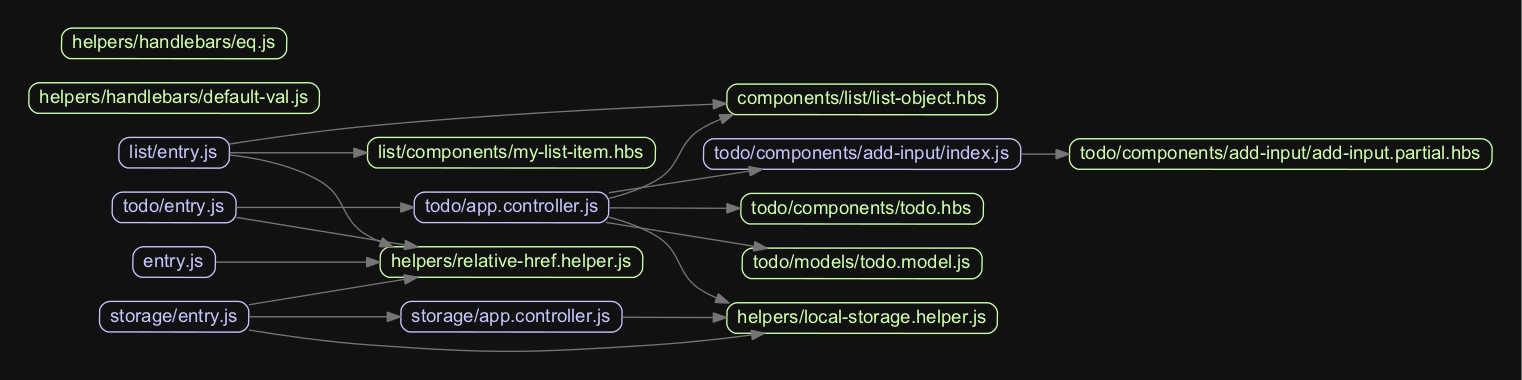
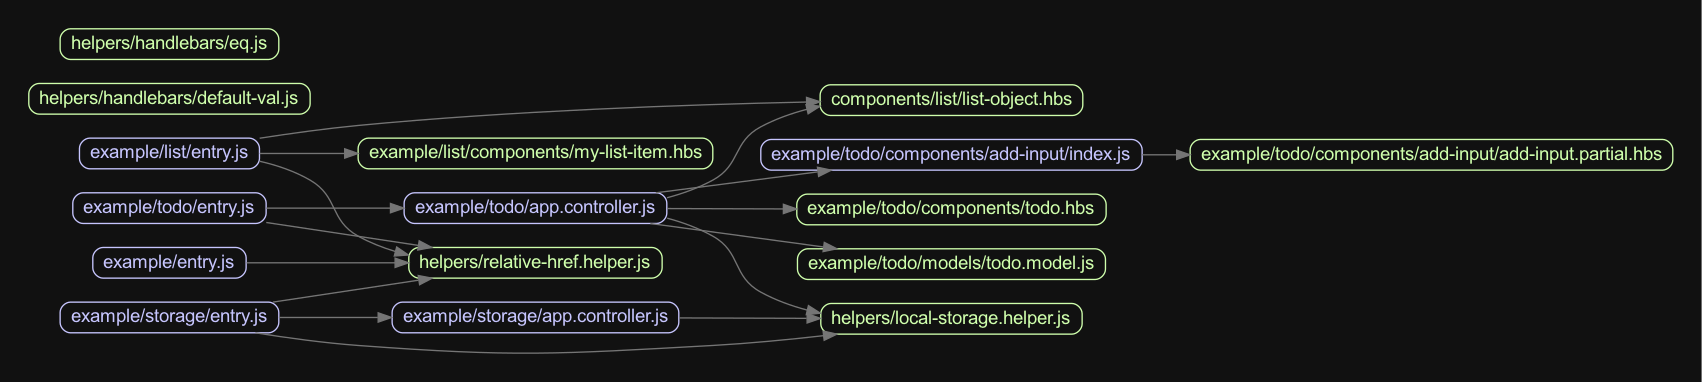
move examples, also add docs link in app footer

Changed region(s): [[0.0, 0.2026, 0.9882, 0.9263], [0.0309, 0.0579, 0.1853, 0.1737]]

diff --git a/webpack.config.js b/webpack.config.js
@@ -25,10 +25,10 @@ module.exports = (env) => {
     mode: 'development',
     // Each entry will be loaded into webpage via <script> tags
     entry: {
-      app: './src/entry.js',
-      storage: './src/storage/entry.js',
-      todo: './src/todo/entry.js',
-      list: './src/list/entry.js'
+      app: './src/example/entry.js',
+      storage: './src/example/storage/entry.js',
+      todo: './src/example/todo/entry.js',
+      list: './src/example/list/entry.js'
     },
     output: {
       filename: '[name].bundle.js',
@@ -53,7 +53,7 @@ module.exports = (env) => {
     plugins: [
       new HtmlWebpackPlugin({
         meta,
-        template: 'src/index.html',
+        template: 'src/example/index.html',
         // Set the webpage title
         title: 'Test with Webpack Plugin',
         excludeChunks: [
@@ -67,21 +67,21 @@ module.exports = (env) => {
       new HtmlWebpackPlugin({
         meta,
         filename: 'storage/index.html',
-        template: 'src/storage/index.html',
+        template: 'src/example/storage/index.html',
         title: 'LocalStorage Example',
         chunks: ['storage']
       }),
       new HtmlWebpackPlugin({
         meta,
         filename: 'todo/index.html',
-        template: 'src/todo/index.html',
+        template: 'src/example/todo/index.html',
         title: 'TODO Example',
         chunks: ['todo']
       }),
       new HtmlWebpackPlugin({
         meta,
         filename: 'list/index.html',
-        template: 'src/list/index.html',
+        template: 'src/example/list/index.html',
         title: 'List Partials Example',
         chunks: ['list']
       }),

diff --git a/src/static/footer.html b/src/static/footer.html
@@ -1,6 +1,8 @@
 <footer class="font-thin text-sm px-2 flex justify-between bg-opacity-50 bg-gray-300">
-  <div class="pt-1 pb-1 justify-start">
+  <div class="pt-1 pb-1 justify-start flex-1">
     @githubImg()
+
+    <a class="ml-1 text-xs" href="https://devlinjunker.github.io/template.webpack.fend">Docs</a>
   </div>
 
   <!--nav>
@@ -15,6 +17,6 @@
     <span class="text-xxs hidden" onclick="document.querySelector('.copyright-build .hidden').classList.remove('hidden'); this.classList.add('hidden');">
       <p>@branch() - @commit()</p>
       <p> @ @datetime() </p>
-    </span> 
+    </span>
   </div>
 </footer>

diff --git a/src/example/todo/app.controller.js b/src/example/todo/app.controller.js
@@ -2,10 +2,10 @@
  * @flow
  */
 import Todo from './models/todo.model.js';
-import listObjectTemplate from '../components/list/list-object.hbs';
+import listObjectTemplate from '../../components/list/list-object.hbs';
 import todoTemplate from './components/todo.hbs';
 import addInputComponent, { AddInputComponent } from './components/add-input';
-import LocalStorageHelper from '../helpers/local-storage.helper.js';
+import LocalStorageHelper from '../../helpers/local-storage.helper.js';
 
 /**
  * Todo App Controller

diff --git a/src/example/todo/index.html b/src/example/todo/index.html
@@ -5,7 +5,7 @@
 
 </head>
 <body class="flex flex-col min-h-screen">
-  @require("../static/header.html", { "page": "todo" })
+  @require("../../static/header.html", { "page": "todo" })
 
   <div class="flex-grow max-w-lg m-auto w-4/5">
     <div id="add-container" class="border-b border-gray-500 px-2 py-1"></div>
@@ -16,5 +16,5 @@
     </form>
   </div>
 
-  @require("../static/footer.html")
+  @require("../../static/footer.html")
 </body>

diff --git a/src/example/index.html b/src/example/index.html
@@ -5,11 +5,11 @@
 
 </head>
 <body class="flex flex-col min-h-screen">
-  @require("./static/header.html", { "page": "home" })
+  @require("../static/header.html", { "page": "home" })
 
   <div class="flex-grow px-3 py-5">
     <p>Welcome to the Demo FEND Application using Webpack to compile the HTML/JS/CSS files.</p>
   </div>
 
-  @require("./static/footer.html")
+  @require("../static/footer.html")
 </body>

diff --git a/src/example/storage/entry.js b/src/example/storage/entry.js
@@ -2,8 +2,8 @@
  * @flow
  */
 import '../base.scss';
-import '../helpers/relative-href.helper';
-import LocalStorageHelper from '../helpers/local-storage.helper';
+import '../../helpers/relative-href.helper';
+import LocalStorageHelper from '../../helpers/local-storage.helper';
 import StorageAppController from './app.controller';
 
 LocalStorageHelper.save({ key: 'test', val: 'abc' });

diff --git a/src/example/storage/index.html b/src/example/storage/index.html
@@ -5,7 +5,7 @@
 
 </head>
 <body class="flex flex-col min-h-screen">
-  @require("../static/header.html", { "page": "storage" })
+  @require("../../static/header.html", { "page": "storage" })
 
   <div class="flex-grow px-2 py-1">
     <div class="input">
@@ -37,5 +37,5 @@
     </div>
   </div>
 
-  @require("../static/footer.html")
+  @require("../../static/footer.html")
 </body>

diff --git a/src/example/list/entry.js b/src/example/list/entry.js
@@ -2,8 +2,8 @@
  * @flow
  */
 import '../base.scss';
-import '../helpers/relative-href.helper';
-import listObjectTemplate from '../components/list/list-object.hbs';
+import '../../helpers/relative-href.helper';
+import listObjectTemplate from '../../components/list/list-object.hbs';
 import listItemTemplate from './components/my-list-item.hbs';
 
 const items: Array<{

diff --git a/src/example/list/index.html b/src/example/list/index.html
@@ -5,10 +5,10 @@
 
 </head>
 <body class="flex flex-col min-h-screen">
-  @require("../static/header.html", { "page": "list" })
+  @require("../../static/header.html", { "page": "list" })
 
   <div id="page" class="flex-grow max-w-lg m-auto w-4/5">
   </div>
 
-  @require("../static/footer.html")
+  @require("../../static/footer.html")
 </body>

diff --git a/src/example/base.scss b/src/example/base.scss
@@ -2,12 +2,16 @@
 
 @import "tailwindcss/components";
 
-@import "./components/components.scss";
+@import "../components/components.scss";
 
 @import "tailwindcss/utilities";
 
-@import "./.utilities.scss";
+@import "../.utilities.scss";
 
 header nav a.active {
   @apply text-gray-500;
+}
+
+footer a[href*=github] img {
+  display: inline;
 }

diff --git a/src/example/storage/app.controller.spec.js b/src/example/storage/app.controller.spec.js
@@ -2,7 +2,7 @@
  * @flow
  */
 import AppController from './app.controller';
-import LocalStorageHelper from '../helpers/local-storage.helper';
+import LocalStorageHelper from '../../helpers/local-storage.helper';
 
 describe('App Controller', function() {
   let controller;

diff --git a/src/example/entry.js b/src/example/entry.js
@@ -6,4 +6,4 @@ import './base.scss';
 
 // TODO: Problem with importing helpers for some reason... :/
 /* eslint-disable-next-line flowtype-errors/show-errors */
-import './helpers/relative-href.helper';
+import '../helpers/relative-href.helper';
